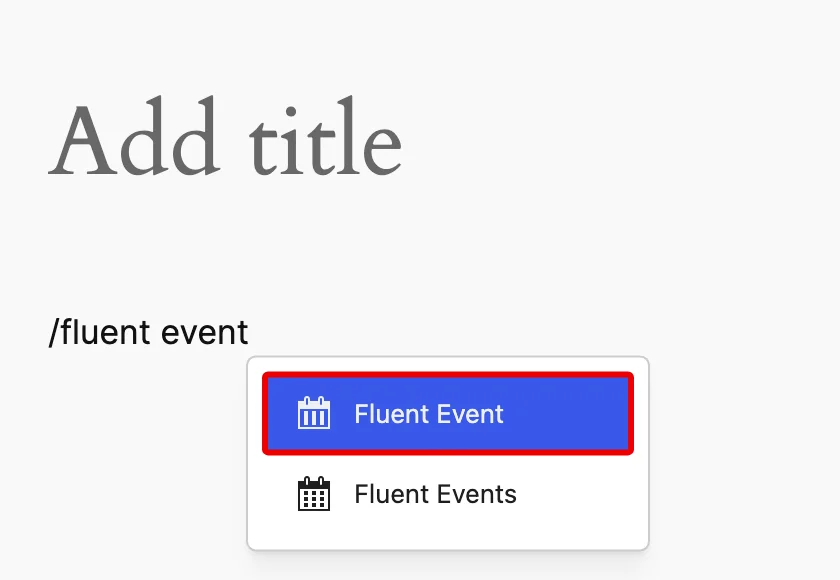
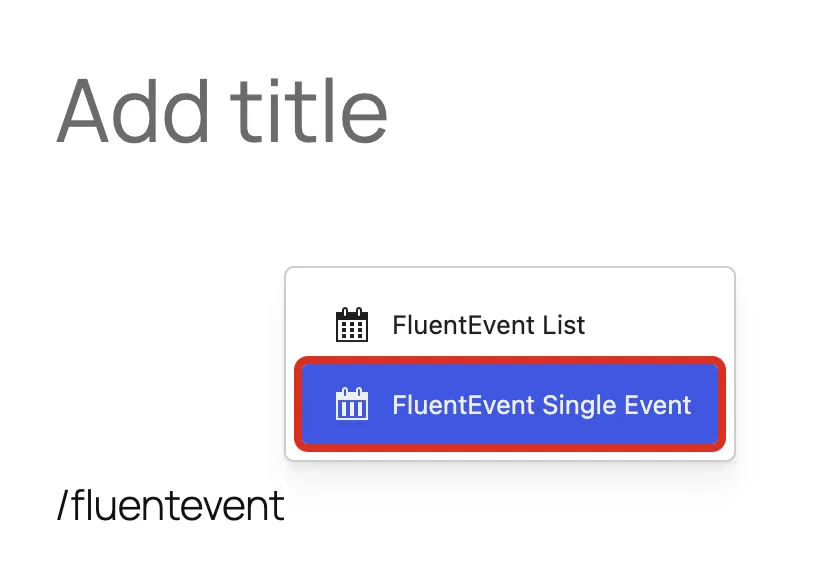
Updated: FluentEvent Name in Blocks and Admin
The product name is FluentEvent (plugin header, wp.org title, admin
menu), but the blocks, dashboard, share modal, browser tab and
readme still said "Fluent Event". Blocks are now "FluentEvent List"
and "FluentEvent Single Event"; the tab title reads the app name
instead of title-casing the slug.

diff --git a/resources/admin/modules/events/parts/EventShareModal.vue b/resources/admin/modules/events/parts/EventShareModal.vue
@@ -48,13 +48,13 @@
 
             <template #block>
                 <p class="fe-share-modal__text">
-                    {{ $t('In the block editor, add the Fluent Event block, then pick this event in its settings.') }}
+                    {{ $t('In the block editor, add the FluentEvent Single Event block, then pick this event in its settings.') }}
                 </p>
 
                 <img
                     class="fe-share-modal__image"
                     :src="appVars.block_inserter_image"
-                    :alt="$t('The block inserter with the Fluent Event block selected')"
+                    :alt="$t('The block inserter with the FluentEvent Single Event block selected')"
                 />
             </template>
         </Tabs>

diff --git a/resources/admin/modules/dashboard/index.vue b/resources/admin/modules/dashboard/index.vue
@@ -19,7 +19,7 @@
                         <div class="fe-dashboard__greeting-text">
                             <h1 class="fe-dashboard__greeting-name">{{ config.me.full_name }}</h1>
                             <p class="fe-dashboard__greeting-note">
-                                {{ $t('Welcome to Fluent Event') }}
+                                {{ $t('Welcome to FluentEvent') }}
                             </p>
                         </div>
                     </header>

diff --git a/resources/blocks/events/index.jsx b/resources/blocks/events/index.jsx
@@ -270,7 +270,7 @@ function Edit({ attributes, setAttributes }) {
 export default function registerEventsBlock() {
     registerBlockType('fluent-event/events', {
         apiVersion: 2,
-        title: __('Fluent Events', 'fluent-event'),
+        title: __('FluentEvent List', 'fluent-event'),
         description: __('A list of your public events, as cards, a timeline or a calendar.', 'fluent-event'),
         category: 'widgets',
         icon: 'calendar-alt',

diff --git a/resources/blocks/event/index.jsx b/resources/blocks/event/index.jsx
@@ -58,7 +58,7 @@ function Edit({ attributes, setAttributes }) {
 export default function registerEventBlock() {
     registerBlockType('fluent-event/event', {
         apiVersion: 2,
-        title: __('Fluent Event', 'fluent-event'),
+        title: __('FluentEvent Single Event', 'fluent-event'),
         description: __('One event with its details and registration.', 'fluent-event'),
         category: 'widgets',
         icon: 'calendar',

diff --git a/resources/admin/mixins/main.js b/resources/admin/mixins/main.js
@@ -223,7 +223,7 @@ export default {
         $changeTitle(title) {
             document.querySelector(
                 'head title'
-            ).textContent = title + ' - ' + titleCase(config.slug);
+            ).textContent = title + ' - ' + config.name;
         },
         $handleError(e, fallback = null) {
             const fallbackMessage = fallback || this.$t('Something went wrong');

diff --git a/resources/admin/utils/date.js b/resources/admin/utils/date.js
@@ -116,7 +116,7 @@ export function buildIcs(event) {
     const lines = [
         'BEGIN:VCALENDAR',
         'VERSION:2.0',
-        'PRODID:-//Fluent Events//EN',
+        'PRODID:-//FluentEvent//EN',
         'CALSCALE:GREGORIAN',
         'BEGIN:VEVENT',
         `UID:fluent-event-${event.id}@${window.location.host}`,

diff --git a/tests/unit/admin/main-mixin.spec.js b/tests/unit/admin/main-mixin.spec.js
@@ -219,7 +219,7 @@ describe('number and date formatting', () => {
 
         vm.$changeTitle('Events');
 
-        expect(document.title).toBe('Events - Fluent Event');
+        expect(document.title).toBe('Events - FluentEvent');
     });
 });
 

diff --git a/config/i18n.php b/config/i18n.php
@@ -82,8 +82,8 @@ return [
             'Add Guest' => __('Add Guest', 'fluent-event'),
             'Add this shortcode to any page or post to show this event.' => __('Add this shortcode to any page or post to show this event.', 'fluent-event'),
             'Add to Block' => __('Add to Block', 'fluent-event'),
-            'In the block editor, add the Fluent Event block, then pick this event in its settings.' => __('In the block editor, add the Fluent Event block, then pick this event in its settings.', 'fluent-event'),
-            'The block inserter with the Fluent Event block selected' => __('The block inserter with the Fluent Event block selected', 'fluent-event'),
+            'In the block editor, add the FluentEvent Single Event block, then pick this event in its settings.' => __('In the block editor, add the FluentEvent Single Event block, then pick this event in its settings.', 'fluent-event'),
+            'The block inserter with the FluentEvent Single Event block selected' => __('The block inserter with the FluentEvent Single Event block selected', 'fluent-event'),
             'Anyone with this link can open the event page.' => __('Anyone with this link can open the event page.', 'fluent-event'),
             'Share' => __('Share', 'fluent-event'),
             'Share Event' => __('Share Event', 'fluent-event'),
@@ -444,7 +444,7 @@ return [
             'Warning' => __('Warning', 'fluent-event'),
             'We could not load this. Please try again.' => __('We could not load this. Please try again.', 'fluent-event'),
             'Week' => __('Week', 'fluent-event'),
-            'Welcome to Fluent Event' => __('Welcome to Fluent Event', 'fluent-event'),
+            'Welcome to FluentEvent' => __('Welcome to FluentEvent', 'fluent-event'),
             'What the event is called and which calendar it belongs to.' => __('What the event is called and which calendar it belongs to.', 'fluent-event'),
             'What the reply-to email is for' => __('What the reply-to email is for', 'fluent-event'),
             'When the event starts and ends.' => __('When the event starts and ends.', 'fluent-event'),

diff --git a/app/Hooks/Handlers/BlockEditorHandler.php b/app/Hooks/Handlers/BlockEditorHandler.php
@@ -179,8 +179,8 @@ class BlockEditorHandler
             'Events list' => __('Events list', 'fluent-event'),
             'Events shown first' => __('Events shown first', 'fluent-event'),
             'First calendar' => __('First calendar', 'fluent-event'),
-            'Fluent Event' => __('Fluent Event', 'fluent-event'),
-            'Fluent Events' => __('Fluent Events', 'fluent-event'),
+            'FluentEvent Single Event' => __('FluentEvent Single Event', 'fluent-event'),
+            'FluentEvent List' => __('FluentEvent List', 'fluent-event'),
             'Hands-on Design Workshop' => __('Hands-on Design Workshop', 'fluent-event'),
             'Hide' => __('Hide', 'fluent-event'),
             'Meetups' => __('Meetups', 'fluent-event'),

diff --git a/app/Utils/DateTimeHelper.php b/app/Utils/DateTimeHelper.php
@@ -214,7 +214,7 @@ class DateTimeHelper
         $lines = [
             'BEGIN:VCALENDAR',
             'VERSION:2.0',
-            'PRODID:-//Fluent Events//EN',
+            'PRODID:-//FluentEvent//EN',
             'CALSCALE:GREGORIAN',
             'BEGIN:VEVENT',
             'UID:fluent-event-' . (int) $event['id'] . '@' . wp_parse_url(home_url(), PHP_URL_HOST),

diff --git a/.claude/docs/roadmap.md b/.claude/docs/roadmap.md
@@ -55,7 +55,7 @@ Seat features built on `release-2` (#204, #205, #206, #209, #211); the rest not 
 | Registration opens at | RSVP stays closed until a set time ("opens Monday 10:00"); pairs with the deadline |
 | Event status on the portal create / edit page | today every event posted from FluentCommunity is saved `private` (`FeedHandler::eventInput()`), so it never gets a public page. Let the admin pick public / unlisted / private while creating or editing; draft stays admin-only, since the post publishes. A public event still needs its space calendar to be public before its page opens — say so beside the choice |
 | Share event | a Share button on the landing event page and the community event page: copy link, email, X, Facebook, LinkedIn, WhatsApp, and the phone's own share sheet where the browser has one. Shares the public page when the event has one, otherwise the community link (members only). Moved from Release 11 |
-| Share panel in the admin (link + shortcode) | admins can't see today that an event or calendar can be placed on a page. A Share button on the event details page opens tabs: **Direct link** (the public page, with View and Copy; when the event or its calendar isn't public, say why and link to the setting instead of a dead URL), **Shortcode** (`[fluent_event event="<slug>"]`, Copy), **Block** (add the Fluent Event block), and **Community post** for a FluentCommunity event. The calendar details page gets the same with `[fluent_events calendar="<slug>"]` and its filtered list link. Iframe embed stays in Release 11 |
+| Share panel in the admin (link + shortcode) | admins can't see today that an event or calendar can be placed on a page. A Share button on the event details page opens tabs: **Direct link** (the public page, with View and Copy; when the event or its calendar isn't public, say why and link to the setting instead of a dead URL), **Shortcode** (`[fluent_event event="<slug>"]`, Copy), **Block** (add the FluentEvent Single Event block), and **Community post** for a FluentCommunity event. The calendar details page gets the same with `[fluent_events calendar="<slug>"]` and its filtered list link. Iframe embed stays in Release 11 |
 | Clone event | FR-6.13. Admin: Duplicate in the event's menu copies its content and settings (venue, entry type, capacity, waitlist, registration window, cover, description) into a new draft in the same calendar; guests are not copied. A FluentCommunity event's copy has no post until the admin publishes it to a space. Moved from Release 6 |
 | Countdown clock | a live "Starts in 2d 04:13:09" on the community event page and the landing event page; counts to the registration opening or deadline while one is ahead. Today "Starts in…" is worked out on page load and never ticks, by choice; a running clock reverses that |
 

diff --git a/CLAUDE.md b/CLAUDE.md
@@ -1,6 +1,6 @@
 # CLAUDE.md
 
-Fluent Event is a WordPress events plugin: **calendars hold events, events collect guests.**
+FluentEvent is a WordPress events plugin: **calendars hold events, events collect guests.**
 Everything else is detail hanging off that spine.
 
 The full rule of record is [`.claude/rules/`](.claude/rules/README.md), and a PostToolUse hook
